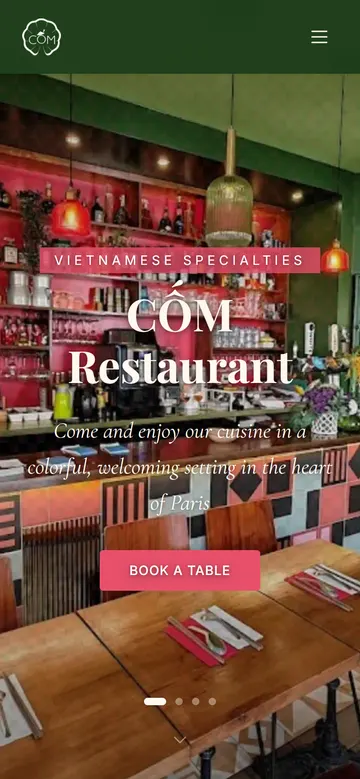
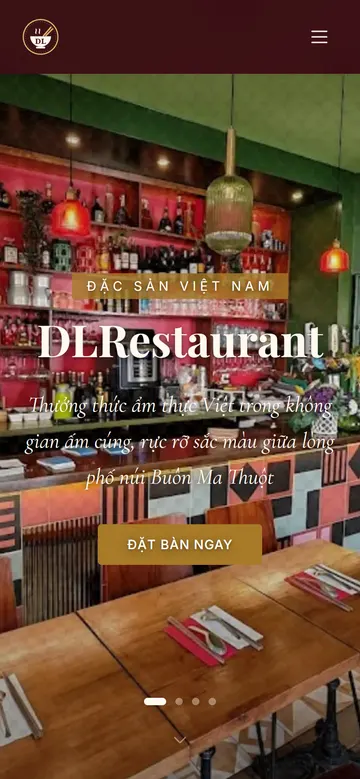
Update template gallery and previews
- Add PNP Travel and Da lieu Thu Hien to the gallery
- Refresh previews for spa, pickleball, pet-care-services, clean-service, com-restaurant and ship
- Rename com-restaurant to DLRestaurant and ship to DLTheme Logistics, update accent colors
- Simplify template cards (drop language, page list and note)
- Load first-row card images eagerly
- Screenshot script: allow capturing from a local server via SRC

Changed region(s): [[0.0611, 0.3081, 0.9472, 0.7702], [0.0, 0.0, 1.0, 0.0924]]

diff --git a/src/data/templates.ts b/src/data/templates.ts
@@ -18,12 +18,8 @@ export type Template = {
   name: string;
   industry: string;
   category: Category;
-  /** Ngôn ngữ nội dung mẫu đang dùng (sẽ đổi theo khách) */
-  lang: 'Tiếng Việt' | 'Tiếng Anh';
-  pages: string[];
   /** Màu chủ đạo của mẫu, dùng làm điểm nhấn nhỏ trên thẻ */
   color: string;
-  note: string;
   /** Link demo riêng, nếu mẫu không nằm trên DEMO_BASE */
   demo?: string;
 };
@@ -32,114 +28,97 @@ export const demoUrl = (t: Pick<Template, 'slug' | 'demo'>) => t.demo ?? `${DEMO
 
 export const templates: Template[] = [
   {
-    slug: 'spa',
-    name: 'Zaipur Spa',
-    industry: 'Spa, massage, chăm sóc da',
+    slug: 'pnp-travel',
+    name: 'PNP Travel Việt',
+    industry: 'Công ty du lịch, đặt tour',
+    category: 'dich-vu',
+    color: '#1f7a2e',
+    demo: 'https://pnptravelviet.com/',
+  },
+  {
+    slug: 'da-lieu-thu-hien',
+    name: 'Da liễu Thu Hiền',
+    industry: 'Phòng khám da liễu, thẩm mỹ',
     category: 'suc-khoe',
-    lang: 'Tiếng Anh',
-    pages: ['Trang chủ', 'Giới thiệu', 'Dịch vụ', 'Chi tiết dịch vụ', 'Đội ngũ', 'Chi tiết nhân viên', 'Blog', 'Chi tiết bài viết', 'Liên hệ', 'Trang 404'],
-    color: '#1f4442',
-    note: 'Bộ trang đầy đủ nhất: có trang đội ngũ, đặt lịch và blog.',
+    color: '#3aa59a',
+    demo: 'https://dalieuthuhien.vn/',
+  },
+  {
+    slug: 'spa',
+    name: 'DLTheme Spa',
+    industry: 'Spa, massage, chăm sóc da, đặt lịch trị liệu',
+    category: 'suc-khoe',
+    color: '#4a2c22',
   },
   {
     slug: 'solar-energy',
     name: 'Năng lượng xanh',
     industry: 'Điện mặt trời, năng lượng tái tạo',
     category: 'dich-vu',
-    lang: 'Tiếng Việt',
-    pages: ['Trang chủ', 'Giới thiệu', 'Dịch vụ', 'Dự án', 'Tin tức', 'Chi tiết tin', 'Liên hệ'],
     color: '#1e8a3c',
-    note: 'Có trang dự án để khoe công trình đã làm.',
   },
   {
     slug: 'house-construction-services',
     name: 'Xây nhà đẹp',
     industry: 'Thiết kế, thi công, sửa chữa nhà',
     category: 'dich-vu',
-    lang: 'Tiếng Việt',
-    pages: ['Trang chủ', 'Giới thiệu', 'Dịch vụ', 'Dự án', 'Blog', 'Chi tiết bài viết', 'Liên hệ'],
     color: '#a8732f',
-    note: 'Hợp với công ty xây dựng, nội thất, kiến trúc.',
   },
   {
     slug: 'coffee',
     name: 'Mộc Coffee',
     industry: 'Quán cà phê, tiệm bánh',
     category: 'an-uong',
-    lang: 'Tiếng Anh',
-    pages: ['Trang chủ', 'Giới thiệu', 'Thực đơn', 'Cửa hàng', 'Chi tiết sản phẩm', 'Liên hệ', 'Chính sách'],
     color: '#3d2416',
-    note: 'Phong cách tối giản, chữ lớn, có trang bán cà phê hạt.',
   },
   {
     slug: 'com-restaurant',
-    name: 'CỐM Restaurant',
-    industry: 'Nhà hàng',
+    name: 'DLRestaurant',
+    industry: 'Nhà hàng, ẩm thực Việt',
     category: 'an-uong',
-    lang: 'Tiếng Anh',
-    pages: ['Trang chủ', 'Thực đơn', 'Câu chuyện', 'Sự kiện', 'Liên hệ', 'Thông tin pháp lý'],
-    color: '#c94a5a',
-    note: 'Nhiều ảnh không gian, có nút đặt bàn.',
+    color: '#6e1a26',
   },
   {
     slug: 'ban-mat-ong',
     name: 'Mật ong Đắk Lắk',
     industry: 'Cửa hàng bán sản phẩm',
     category: 'ban-hang',
-    lang: 'Tiếng Việt',
-    pages: ['Trang chủ', 'Giới thiệu', 'Danh sách sản phẩm', 'Chi tiết sản phẩm', 'Tin tức', 'Chi tiết tin'],
     color: '#e8960c',
-    note: 'Có danh mục, trang sản phẩm, nút gọi và Zalo nổi.',
   },
   {
     slug: 'pet-care-services',
-    name: 'Pet Care',
-    industry: 'Chăm sóc thú cưng, thú y',
+    name: 'DLTheme Pet Care',
+    industry: 'Chăm sóc thú cưng, thú y, cửa hàng phụ kiện',
     category: 'dich-vu',
-    lang: 'Tiếng Việt',
-    pages: ['Trang chủ', 'Giới thiệu', 'Dịch vụ'],
     color: '#1a9e93',
-    note: 'Gọn, thân thiện, nút gọi và Zalo luôn hiện.',
   },
   {
     slug: 'clean-service',
     name: 'Vệ sinh chuyên nghiệp',
     industry: 'Dịch vụ vệ sinh nhà, văn phòng',
     category: 'dich-vu',
-    lang: 'Tiếng Việt',
-    pages: ['Trang chủ (một trang)'],
     color: '#0e8fb3',
-    note: 'Một trang duy nhất, đủ thông tin để khách gọi ngay.',
   },
   {
     slug: 'ship',
-    name: 'Logistics',
+    name: 'DLTheme Logistics',
     industry: 'Vận chuyển, kho bãi',
     category: 'dich-vu',
-    lang: 'Tiếng Việt',
-    pages: ['Trang chủ (một trang)'],
-    color: '#c8662a',
-    note: 'Một trang, có quy trình đặt hàng và bảng phí dịch vụ.',
+    color: '#1b4d3e',
   },
   {
     slug: 'pickleball',
-    name: 'CLB Pickleball',
-    industry: 'Câu lạc bộ thể thao, phòng tập',
+    name: 'DLTheme Pickleball',
+    industry: 'Câu lạc bộ thể thao, sân tập, lớp học',
     category: 'suc-khoe',
-    lang: 'Tiếng Việt',
-    pages: ['Trang chủ (một trang)'],
     color: '#c99a55',
-    note: 'Bố cục dạng lưới ảnh, hợp CLB, phòng gym, lớp học.',
   },
   {
     slug: 'smart-booking',
     name: 'Smart Booking',
     industry: 'Tiệm nail, salon làm đẹp có đặt lịch',
     category: 'suc-khoe',
-    lang: 'Tiếng Việt',
-    pages: ['Dịch vụ & bảng giá', 'Chi tiết dịch vụ', 'Đặt lịch trực tuyến', 'Tài khoản khách hàng'],
     color: '#b8994f',
-    note: 'Khách tự xem giá, đặt lịch online và nhận xác nhận qua email.',
     demo: 'https://dltheme-smart-booking.site.je/',
   },
 ];

diff --git a/src/components/TemplateGallery.tsx b/src/components/TemplateGallery.tsx
@@ -33,9 +33,10 @@ export function TemplateGallery() {
       </div>
 
       <ul className="mt-10 grid gap-x-8 gap-y-14 md:grid-cols-2">
-        {list.map((t) => (
+        {list.map((t, i) => (
           <li key={t.slug}>
-            <TemplateCard t={t} />
+            {/* 2 thẻ đầu nằm ngay hàng đầu tiên → tải ngay, không lazy */}
+            <TemplateCard t={t} eager={i < 2} />
           </li>
         ))}
       </ul>
@@ -43,7 +44,7 @@ export function TemplateGallery() {
   );
 }
 
-function TemplateCard({ t }: { t: Template }) {
+function TemplateCard({ t, eager }: { t: Template; eager?: boolean }) {
   const demo = demoUrl(t);
 
   function pick() {
@@ -57,6 +58,7 @@ function TemplateCard({ t }: { t: Template }) {
           slug={t.slug}
           alt={`Trang chủ mẫu ${t.name} trên máy tính`}
           sizes="(min-width: 1152px) 500px, (min-width: 768px) 45vw, 92vw"
+          loading={eager ? 'eager' : undefined}
           className="transition-transform duration-300 group-hover:-translate-y-1"
         />
         <PhoneFrame
@@ -64,6 +66,7 @@ function TemplateCard({ t }: { t: Template }) {
           alt={`Mẫu ${t.name} trên điện thoại`}
           className="absolute right-0 bottom-0 w-[22%] transition-transform duration-300 group-hover:translate-y-1"
           sizes="120px"
+          loading={eager ? 'eager' : undefined}
         />
       </a>
 
@@ -71,16 +74,9 @@ function TemplateCard({ t }: { t: Template }) {
         <h3 className="font-display text-2xl font-bold tracking-tight">
           {t.name}
         </h3>
-        <span className="flex shrink-0 items-center gap-1.5 text-xs text-muted">
-          <span className="size-2.5 rounded-full" style={{ background: t.color }} aria-hidden />
-          {t.lang}
-        </span>
+        <span className="size-2.5 shrink-0 rounded-full" style={{ background: t.color }} aria-hidden />
       </div>
       <p className="mt-1 text-ink-2">{t.industry}</p>
-      <p className="mt-3 text-sm leading-relaxed text-muted">
-        <span className="font-medium text-ink-2">{t.pages.length} trang:</span> {t.pages.join(' · ')}
-      </p>
-      <p className="mt-2 text-sm text-muted">{t.note}</p>
 
       <div className="mt-5 flex flex-wrap gap-2">
         <a

diff --git a/src/components/Frames.tsx b/src/components/Frames.tsx
@@ -6,9 +6,11 @@ type FrameProps = {
   className?: string;
   sizes?: string;
   preload?: boolean;
+  /** 'eager' cho ảnh nằm ngay màn hình đầu (ảnh LCP) */
+  loading?: 'eager' | 'lazy';
 };
 
-export function BrowserFrame({ slug, alt, className = '', sizes, preload }: FrameProps) {
+export function BrowserFrame({ slug, alt, className = '', sizes, preload, loading }: FrameProps) {
   return (
     <div className={`overflow-hidden rounded-lg border border-ink/15 bg-card shadow-[0_1px_0_rgba(0,0,0,.04),0_18px_40px_-24px_rgba(45,28,15,.45)] ${className}`}>
       <div className="flex items-center gap-1.5 border-b border-ink/10 bg-paper-2/70 px-3 py-2">
@@ -24,13 +26,14 @@ export function BrowserFrame({ slug, alt, className = '', sizes, preload }: Fram
         height={750}
         sizes={sizes ?? '(min-width: 1024px) 560px, 100vw'}
         preload={preload}
+        loading={loading}
         className="block h-auto w-full"
       />
     </div>
   );
 }
 
-export function PhoneFrame({ slug, alt, className = '', sizes, preload }: FrameProps) {
+export function PhoneFrame({ slug, alt, className = '', sizes, preload, loading }: FrameProps) {
   return (
     <div className={`overflow-hidden rounded-[1.1rem] border-[5px] border-ink bg-ink shadow-[0_20px_40px_-20px_rgba(45,28,15,.6)] ${className}`}>
       <Image
@@ -40,6 +43,7 @@ export function PhoneFrame({ slug, alt, className = '', sizes, preload }: FrameP
         height={779}
         sizes={sizes ?? '140px'}
         preload={preload}
+        loading={loading}
         className="block aspect-[9/17] h-auto w-full rounded-[0.7rem] object-cover object-top"
       />
     </div>

diff --git a/README.md b/README.md
@@ -14,7 +14,7 @@ npm run dev        # http://localhost:3000
 | Muốn sửa | File |
 | --- | --- |
 | SĐT, email, Zalo, mô tả SEO | `src/lib/site.ts` |
-| Danh sách mẫu (tên, ngành, số trang, ghi chú) | `src/data/templates.ts` |
+| Danh sách mẫu (tên, ngành, link demo) | `src/data/templates.ts` |
 | Các bước làm, "Website nào cũng có", Hỏi đáp | `src/components/Sections.tsx` |
 | Tiêu đề lớn đầu trang | `src/components/Hero.tsx` |
 | Ảnh khi chia sẻ link (1200×630) | `src/app/opengraph-image.png` |
@@ -24,6 +24,7 @@ npm run dev        # http://localhost:3000
 1. Đưa mẫu lên repo `html-templates` (GitHub Pages).
 2. Thêm 1 object vào `src/data/templates.ts` (slug = tên thư mục).
 3. Chụp ảnh xem trước: `npm run shots -- <slug>` (cần Google Chrome).
+   Mẫu chưa đẩy lên GitHub Pages: chạy `python -m http.server 8765` trong thư mục html-templates rồi `SRC=http://localhost:8765 npm run shots -- <slug>`.
    Nếu ảnh chụp đúng lúc slider đang chuyển, chạy lại với `WAIT=1200 npm run shots -- <slug>`.
 
 ## Deploy lên Vercel
